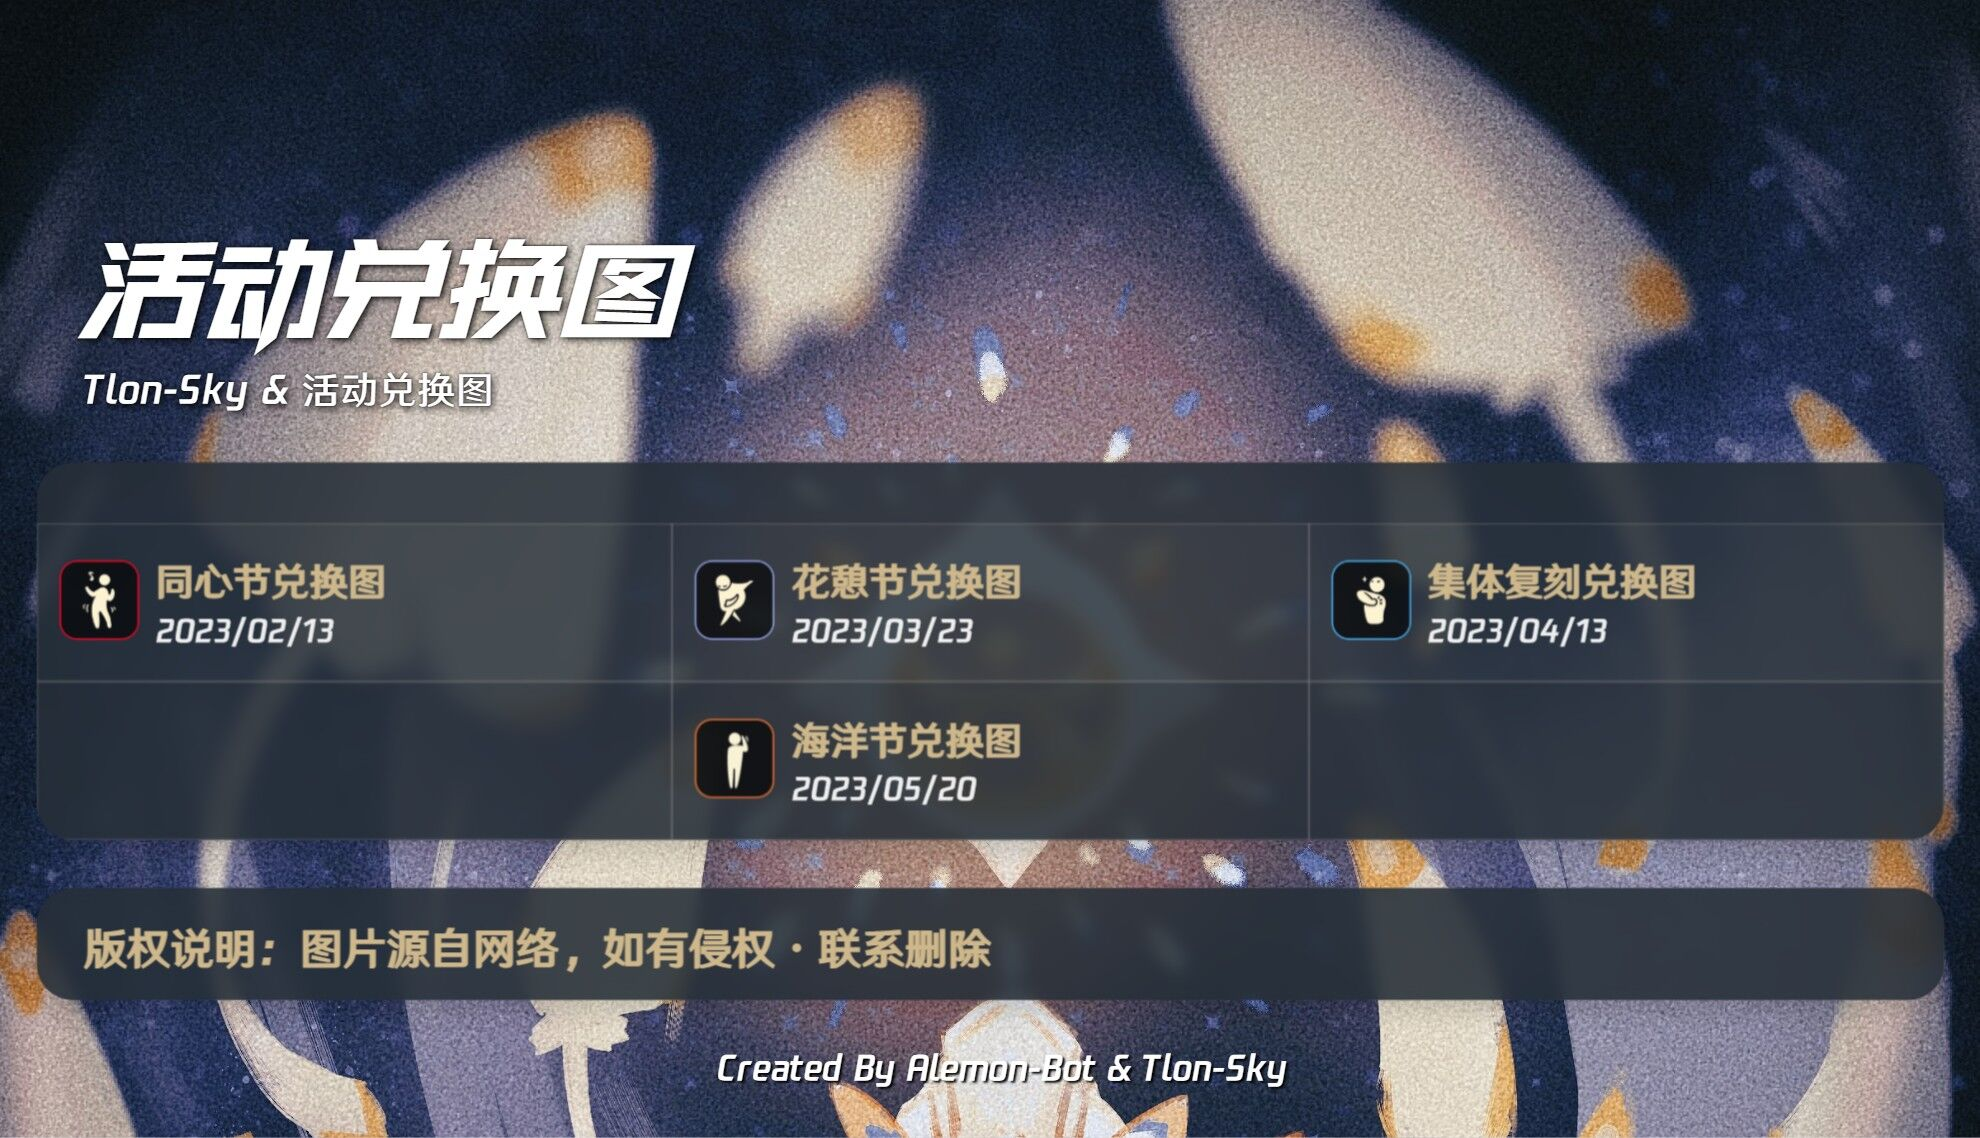
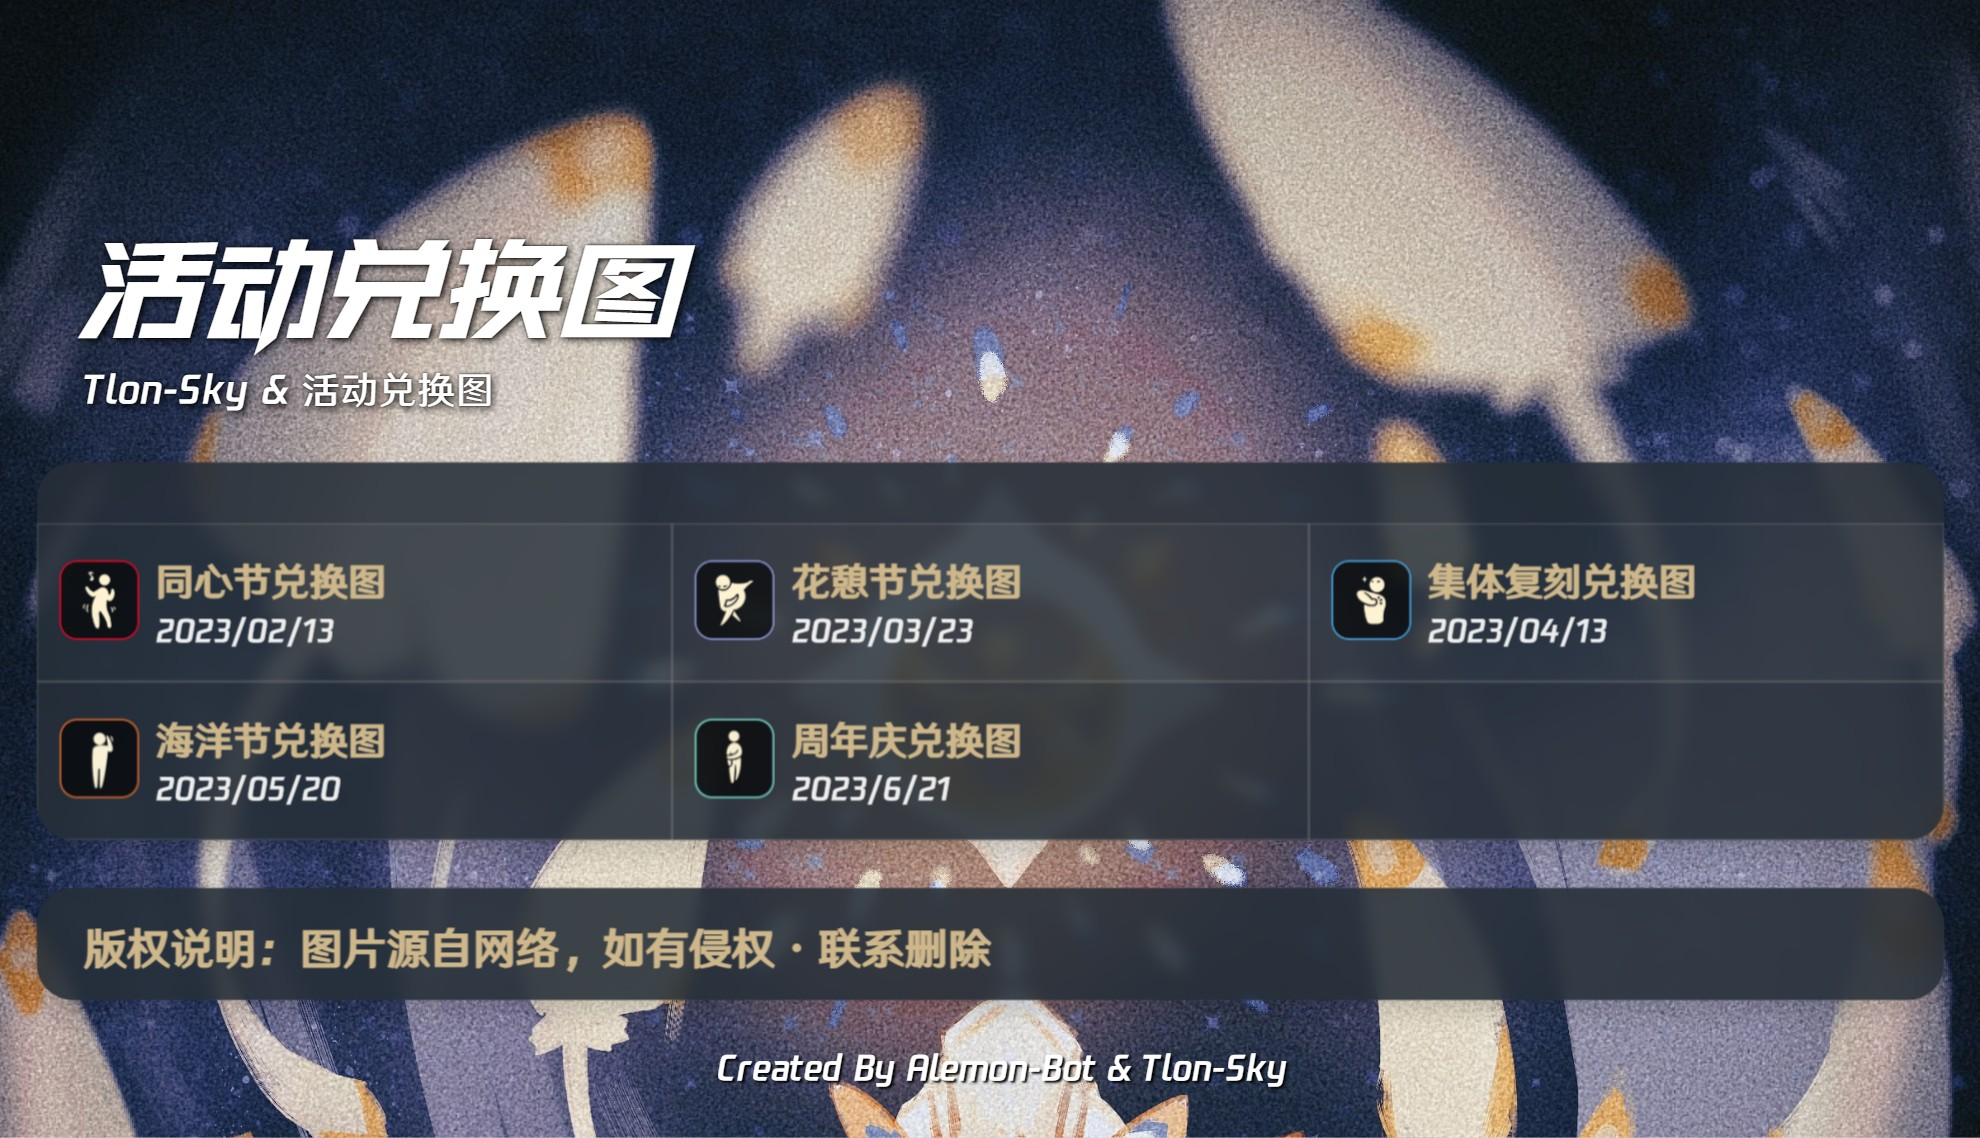
```更新周年庆兑换图与活动兑换图列表```

Changed region(s): [[0.0308, 0.6151, 0.2157, 0.7074], [0.3389, 0.6151, 0.4929, 0.7074]]

diff --git a/apps/兑换图/兑换图[活动]/周年庆.ts b/apps/兑换图/兑换图[活动]/周年庆.ts
@@ -1,0 +1,25 @@
+import { plugin, Messagetype } from 'alemon'
+
+export class 周年庆兑换图 extends plugin {
+    constructor() {
+        super({
+            dsc: '周年庆兑换图',
+            rule: [
+                {
+                    reg: '^/?周年庆兑换图$',
+                    fnc: 'Exchange_chart_Anniversary_celebration'
+                }
+            ]
+        })
+    }
+  /**
+   * 指令方法
+   * @param e 消息对象
+   * @returns
+   */
+  async Exchange_chart_Collective_copy(e: Messagetype): Promise<boolean> {
+    const imgreply = 'plugins/Sky/resource/兑换图/活动/周年庆.png';
+      e.sendImage(imgreply)
+      return false;
+  }
+}

diff --git a/CHANGELOG.md b/CHANGELOG.md
@@ -1,3 +1,7 @@
+2023.06.25更新说明
+* 更新周年庆兑换图
+* 更新活动兑换图列表
+
 2023.06.20更新说明
 * 身高查询修复
 * 限制每日七次
